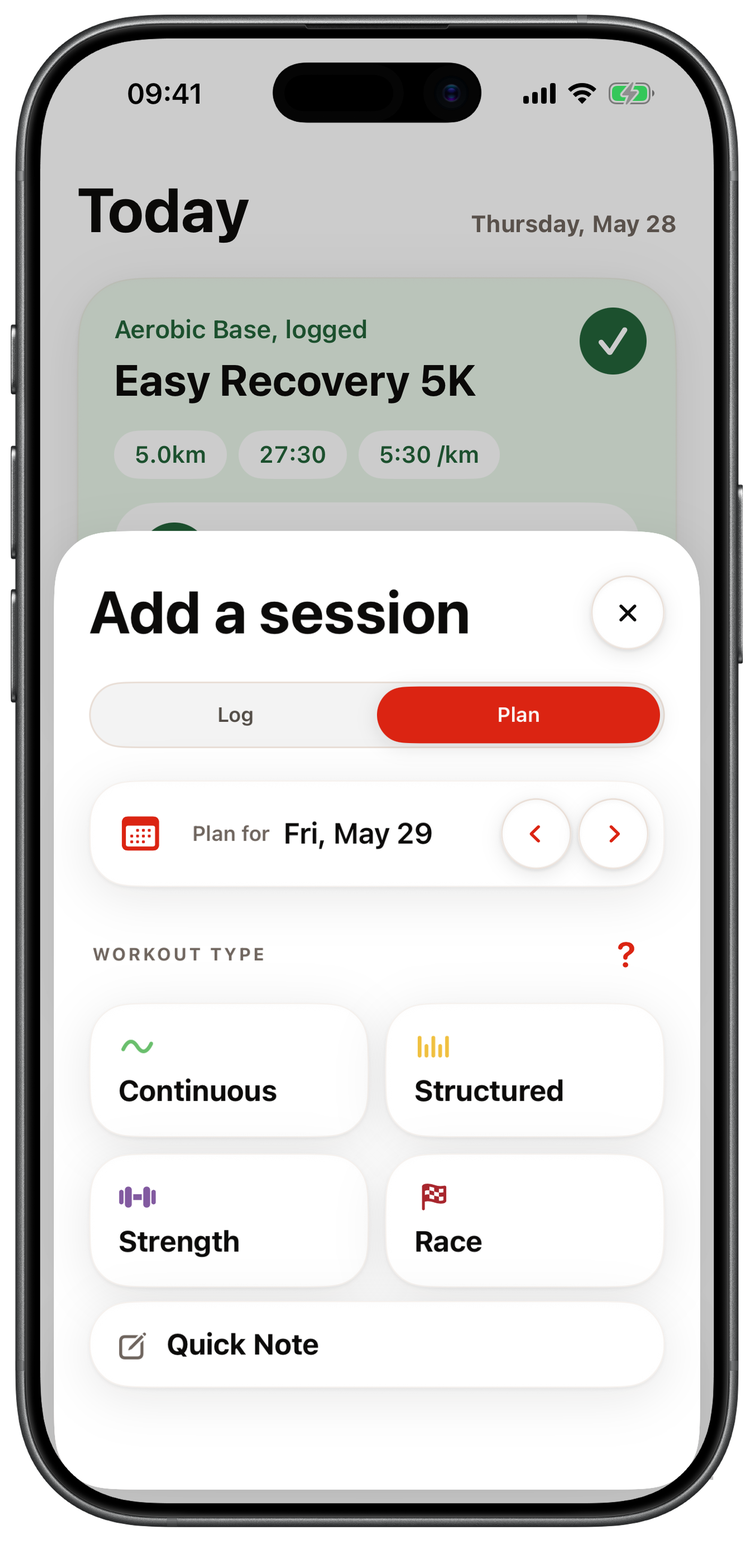
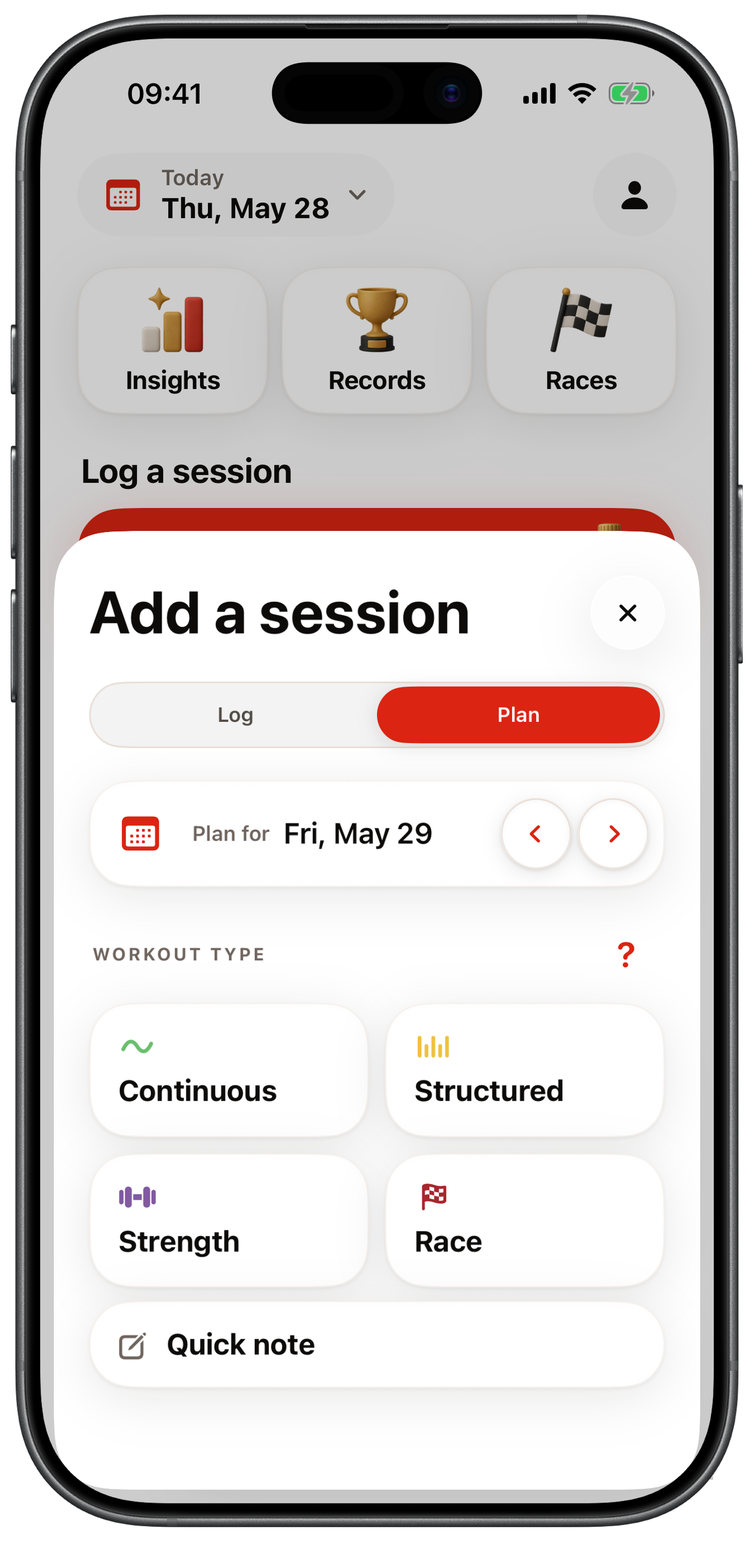
Refresh the website for StrideBuddy 1.2.0
Replace every phone screenshot with the approved one-page App Store set,
add a Race predictions section, and update the copy where the app changed:
Coach is now Plan, Volume lives in Insights as a 12-week line, Records shows
personal bests and training records, and Races lists only races ahead. The
Diary screenshot is removed because that screen no longer exists.

diff --git a/index.html b/index.html
@@ -4,7 +4,7 @@
   <meta charset="utf-8">
   <meta name="viewport" content="width=device-width, initial-scale=1">
   <title>StrideBuddy | A training diary for track athletes</title>
-  <meta name="description" content="Log track sessions without forcing them into a generic running app. StrideBuddy brings reps, splits, strength work, races, records and weekly Coach plans into one diary.">
+  <meta name="description" content="Log track sessions without forcing them into a generic running app. StrideBuddy brings reps, splits, strength work, races, records, race predictions and weekly plans into one diary.">
   <!--
     Apex, no extension. That is what the host serves: Cloudflare Pages strips
     the extension, so /index.html 307s here and /support.html 307s to /support.
@@ -31,7 +31,7 @@
   <meta property="og:site_name" content="StrideBuddy">
   <meta property="og:url" content="https://stridebuddy.app/">
   <meta property="og:title" content="StrideBuddy | A training diary for track athletes">
-  <meta property="og:description" content="Log track training and races in one diary. Coach plans your week around your event, recent training and season.">
+  <meta property="og:description" content="Log track training and races in one diary. StrideBuddy plans your week around your event, recent training and season, and predicts your race times.">
   <meta property="og:image" content="https://stridebuddy.app/assets/stridebuddy_icon.png">
   <meta property="og:image:width" content="1024">
   <meta property="og:image:height" content="1024">
@@ -73,19 +73,21 @@
       "https://stridebuddy.app/assets/screenshots/today.png",
       "https://stridebuddy.app/assets/screenshots/log_structured.png",
       "https://stridebuddy.app/assets/screenshots/review.png",
+      "https://stridebuddy.app/assets/screenshots/predictions.png",
       "https://stridebuddy.app/assets/screenshots/records.png",
       "https://stridebuddy.app/assets/screenshots/race_calendar.png",
       "https://stridebuddy.app/assets/screenshots/volume.png"
     ],
-    "description": "A training diary for competitive track and field athletes. Log reps, recoveries, splits, strength work and races, plan your week with Coach, and keep personal bests and rep records in view.",
+    "description": "A training diary for competitive track and field athletes. Log reps, recoveries, splits, strength work and races, get a weekly plan and race predictions, and keep personal bests and rep records in view.",
     "featureList": [
       "Structured track session logging with reps, recoveries and splits",
       "Hurdles and steeplechase reps kept distinct from flat distances",
       "Strength, road, trail and race logging",
       "Personal bests and rep records",
       "Planned sessions and a race calendar",
+      "Race predictions with a range and a confidence level",
       "Weekly running volume from your logged sessions",
-      "Weekly Coach plans built around modern periodization",
+      "Weekly plans built around modern periodization",
       "Account sync across devices with offline access"
     ],
     "offers": {
@@ -455,7 +457,8 @@
       </a>
       <nav class="navlinks" aria-label="Main navigation">
         <a href="#features">Features</a>
-        <a href="#coach">Coach</a>
+        <a href="#coach">Plan</a>
+        <a href="#predictions">Predictions</a>
         <a href="#records">Records</a>
       </nav>
       <div class="nav-actions">
@@ -478,7 +481,7 @@
           <svg aria-hidden="true" viewBox="0 0 24 24" width="15" height="15" fill="none" stroke="currentColor" stroke-width="2.2" stroke-linecap="round" stroke-linejoin="round"><path d="M5 12h14M13 6l6 6-6 6"/></svg>
         </a>
         <h1 class="center">A training diary that understands track.</h1>
-        <p class="lede center">Log reps, splits, races and strength work in one diary. Coach plans your week around your event, recent training and season. Keep your reps and race records together.</p>
+        <p class="lede center">Log reps, splits, races and strength work in one diary. StrideBuddy plans your week around your event, recent training and season, and predicts your race times. Keep your reps and race records together.</p>
         <div class="btn-row">
           <a class="btn btn-red" href="https://apps.apple.com/app/apple-store/id6760190939?pt=128627634&amp;ct=website&amp;mt=8">Download on the App Store</a>
           <a class="btn btn-smoke" href="https://web.stridebuddy.app">Open the web app
@@ -490,12 +493,12 @@
 
       <div class="wrap">
         <div class="cascade">
-          <div class="phone p-back left"><img src="assets/screenshots/records.png" width="1800" height="3680" alt="Records with the speed curve and times by distance"></div>
-          <div class="phone p-back right"><img src="assets/screenshots/race_calendar.png" width="1800" height="3680" alt="Upcoming and past races in the race calendar"></div>
-          <div class="phone p-mid left"><img src="assets/screenshots/diary.png" width="1800" height="3680" alt="StrideBuddy's Diary with this week's sessions"></div>
-          <div class="phone p-mid right"><img src="assets/screenshots/review.png" width="1800" height="3680" alt="Coach showing Season status and this week's plan"></div>
+          <div class="phone p-back left"><img src="assets/screenshots/records.png" width="1800" height="3680" alt="Records with personal bests and training records"></div>
+          <div class="phone p-back right"><img src="assets/screenshots/race_calendar.png" width="1800" height="3680" alt="Upcoming races in the race calendar"></div>
+          <div class="phone p-mid left"><img src="assets/screenshots/predictions.png" width="1800" height="3680" alt="An 800m race prediction with its range and confidence level"></div>
+          <div class="phone p-mid right"><img src="assets/screenshots/review.png" width="1800" height="3680" alt="Plan showing Season status and this week's sessions"></div>
           <div class="phone phone-layered p-front">
-            <img class="screen" src="assets/screenshots/today.png" width="1206" height="2622" alt="StrideBuddy's Today screen, with today's logged session and this week's training">
+            <img class="screen" src="assets/screenshots/today.png" width="1206" height="2622" alt="StrideBuddy's training page, with the Log button and this week's diary">
             <img class="bezel" src="assets/iphone-17-black-bezel.png" width="2015" height="4120" alt="" aria-hidden="true">
           </div>
         </div>
@@ -561,13 +564,13 @@
         <div class="g3" style="margin-top:16px">
           <article class="tile">
             <h3>A week that fits your season</h3>
-            <p class="body">Coach uses modern periodization to change your training focus through the season.</p>
+            <p class="body">Plan uses modern periodization to change your training focus through the season.</p>
             <div class="season" aria-hidden="true" style="grid-template-columns:repeat(12, minmax(0, 1fr)); margin-top:24px">
               <span class="w-base past"></span><span class="now"></span><span class="w-build"></span><span class="w-sharpen"></span><span class="w-sharpen"></span><span class="w-race"></span><span class="w-race"></span><span class="w-sharpen"></span><span class="w-race"></span><span class="w-rest"></span><span class="w-rest"></span><span class="w-rest"></span>
             </div>
           </article>
           <article class="tile">
-            <h3>A curve for speed, a ledger for times</h3>
+            <h3>Your fastest reps and races</h3>
             <p class="body">Reps and races shown side by side and never scored.</p>
             <div class="times num" aria-hidden="true">
               <div><p class="d">60m</p><p class="t">7.40</p></div>
@@ -594,7 +597,7 @@
           <div class="points" aria-label="What you can plan in StrideBuddy">
             <div class="pt"><strong>Log or plan</strong><span>Log covers today and any earlier day. Plan covers tomorrow onwards, as far as a year out.</span></div>
             <div class="pt"><strong>The same session types</strong><span>Structured, Continuous, Strength, Race and Quick Note.</span></div>
-            <div class="pt"><strong>Waiting on Today</strong><span>Find upcoming sessions on Today and in the Plan page. Log the result when you have done the session.</span></div>
+            <div class="pt"><strong>Ready on the day</strong><span>On the day, the session waits on your training page. Find later sessions in Plan. Log the result when you have done the session.</span></div>
             <div class="pt"><strong>Races go to the calendar</strong><span>Plan a race and it lands in your race calendar instead.</span></div>
           </div>
         </div>
@@ -606,18 +609,18 @@
     <section id="coach" class="sec">
       <div class="wrap split">
         <div>
-          <p class="eyebrow">Coach</p>
+          <p class="eyebrow">Plan</p>
           <h2 class="h2">Your training week, built for your season.</h2>
-          <p class="lead">Coach builds a weekly plan from your event, recent training, available days and races. The season sets the direction. Your diary helps it choose how much work to prescribe.</p>
-          <div class="points" aria-label="How Coach plans your training">
+          <p class="lead">In Plan, StrideBuddy builds a weekly plan from your event, recent training, available days and races. The season sets the direction. Your diary helps it choose how much work to prescribe.</p>
+          <div class="points" aria-label="How Plan builds your training week">
             <div class="pt"><strong>Season status</strong><span>Read where you are in the season and what your training is working toward.</span></div>
             <div class="pt"><strong>This week</strong><span>Understand the focus of the week before you open its sessions.</span></div>
             <div class="pt"><strong>Your event and races</strong><span>Training reflects your event and the importance of the races in your calendar.</span></div>
             <div class="pt"><strong>You choose when to build</strong><span>Ask for your week when you are ready. Saved plans remain available offline.</span></div>
           </div>
-          <p class="note">Coach uses AI to write the plan within event-specific training rules. It is a free beta feature and needs an internet connection to build or change a plan.</p>
+          <p class="note">Plan uses AI to write the plan within event-specific training rules. It is a free beta feature and needs an internet connection to build or change a plan.</p>
         </div>
-        <div class="stage"><div class="phone"><img src="assets/screenshots/review.png" width="1800" height="3680" alt="Coach showing Season status, This week and a saved weekly training plan" loading="lazy"></div></div>
+        <div class="stage"><div class="phone"><img src="assets/screenshots/review.png" width="1800" height="3680" alt="Plan showing Season status, This week and a saved weekly training plan" loading="lazy"></div></div>
       </div>
     </section>
 
@@ -628,7 +631,7 @@
           <p class="eyebrow">Modern periodization</p>
           <h2 class="h2">Change the focus as your season progresses.</h2>
           <p class="lead">Periodization means changing the focus of training over time. Build a base, develop the qualities your event needs, then prepare for racing. Easier weeks and recovery are part of the plan.</p>
-          <p class="more">Coach keeps useful training qualities in the plan as the main focus changes. It considers your recent sessions and race priorities when choosing the next week's work.</p>
+          <p class="more">The plan keeps useful training qualities in the plan as the main focus changes. It considers your recent sessions and race priorities when choosing the next week's work.</p>
           <p class="more">A return from a break starts with a gradual return to training. A nearby race can change the week's preparation. The plan follows your situation.</p>
         </div>
         <div class="stage" style="padding:48px 32px">
@@ -661,70 +664,89 @@
         <div>
           <p class="eyebrow">Each session has a purpose</p>
           <h2 class="h2">Know what to do and why it belongs.</h2>
-          <p class="lead">Open a Coach session to see its reps, recoveries and execution cues. Read what the session develops and how it supports your event.</p>
-          <p class="more">Coach can include time or pace ranges when your recent training and personal bests support them. A session can also come without a numerical target.</p>
+          <p class="lead">Open a planned session to see its reps, recoveries and execution cues. Read what the session develops and how it supports your event.</p>
+          <p class="more">A session can include time or pace ranges when your recent training and personal bests support them. A session can also come without a numerical target.</p>
           <p class="more">Use the planned session to start your log when its day arrives. Record the result you actually ran.</p>
         </div>
-        <div class="stage"><div class="phone"><img src="assets/screenshots/coach_session.png" width="1800" height="3680" alt="A Coach session showing its reps, recoveries and the answer to why this session now" loading="lazy"></div></div>
+        <div class="stage"><div class="phone"><img src="assets/screenshots/coach_session.png" width="1800" height="3680" alt="A planned session showing its reps, recoveries and the answer to why this session now" loading="lazy"></div></div>
+      </div>
+    </section>
+
+    <!-- ============ PREDICTIONS ============ -->
+    <section id="predictions" class="sec band">
+      <div class="wrap split rev">
+        <div>
+          <p class="eyebrow">Race predictions</p>
+          <h2 class="h2">Race predictions from your training.</h2>
+          <p class="lead">StrideBuddy uses AI to read your diary and predict your race times. You get predictions for your main event and for related numbers. For example, an 800m runner sees the 800m, 400m and 1500m.</p>
+          <div class="points" aria-label="What a race prediction shows">
+            <div class="pt"><strong>A range, not one number</strong><span>Each prediction shows the most likely time and a range around it.</span></div>
+            <div class="pt"><strong>Low, medium or high</strong><span>A confidence level tells you how sure the prediction is.</span></div>
+            <div class="pt"><strong>See it change</strong><span>A chart shows each prediction over the last 6 months, next to your PB.</span></div>
+            <div class="pt"><strong>Grows with your diary</strong><span>Your first predictions can appear after you log 5 sessions. They update as you log more.</span></div>
+          </div>
+          <p class="note">A prediction is an estimate, not a promise. Race predictions use AI. They are optional and free, with usage limits, and need an internet connection. Your last predictions stay available offline.</p>
+        </div>
+        <div class="stage"><div class="phone"><img src="assets/screenshots/predictions.png" width="1800" height="3680" alt="An 800m race prediction of 1:50.0, with its range, a medium confidence level and a chart of the last 6 months" loading="lazy"></div></div>
       </div>
     </section>
 
     <!-- ============ VOLUME ============ -->
-    <section id="volume" class="sec band">
-      <div class="wrap split rev">
+    <section id="volume" class="sec">
+      <div class="wrap split">
         <div>
           <p class="eyebrow">Volume</p>
           <h2 class="h2">How much you trained, counted from the diary.</h2>
-          <p class="lead">The You tab adds up the running distance you logged, with a bar for each week. Open a week to see its days and sessions.</p>
+          <p class="lead">Insights adds up the running distance you logged and shows the last 12 weeks as one line. Hold your finger on the line to read any week.</p>
           <div class="points" aria-label="What the weekly volume chart shows">
-            <div class="pt"><strong>Week by week</strong><span>Four weeks on screen at a time, and you can page back through earlier ones.</span></div>
-            <div class="pt"><strong>Open a week</strong><span>Tap a bar to see its days and the sessions inside them.</span></div>
+            <div class="pt"><strong>12 weeks at a glance</strong><span>See this week next to the weeks before it.</span></div>
+            <div class="pt"><strong>Your usual week</strong><span>A dashed line shows how much you usually run, so a big or small week is easy to spot.</span></div>
             <div class="pt"><strong>From your entries</strong><span>The chart uses your logged distance.</span></div>
             <div class="pt"><strong>Counted, not scored</strong><span>No readiness score and no training load index. These are your own entries, added up.</span></div>
           </div>
         </div>
-        <div class="stage"><div class="phone"><img src="assets/screenshots/volume.png" width="1800" height="3680" alt="Weekly volume chart and one week's sessions in StrideBuddy's You tab" loading="lazy"></div></div>
+        <div class="stage"><div class="phone"><img src="assets/screenshots/volume.png" width="1800" height="3680" alt="Weekly running volume and race predictions in StrideBuddy's Insights" loading="lazy"></div></div>
       </div>
     </section>
 
     <!-- ============ RECORDS ============ -->
-    <section id="records" class="sec">
-      <div class="wrap split">
+    <section id="records" class="sec band">
+      <div class="wrap split rev">
         <div>
           <p class="eyebrow">Records</p>
           <h2 class="h2">Your reps and races, side by side.</h2>
-          <p class="lead">Records brings your fastest reps and races onto one page. A hand-drawn signature curve follows the distances you run, and the ledger lists your times by distance. You can look at a single season or your full history.</p>
+          <p class="lead">Records brings your personal bests and your fastest reps onto one page. You can look at a single season or your full history.</p>
           <div class="points" aria-label="What you can see in Records">
-            <div class="pt"><strong>Your speed curve</strong><span>See your rep speed at every distance, with race results overlaid.</span></div>
-            <div class="pt"><strong>Times by distance</strong><span>Compare your fastest and typical times for reps or races.</span></div>
-            <div class="pt"><strong>One season or all time</strong><span>Focus on one season or open your complete training history.</span></div>
-            <div class="pt"><strong>Times without judgment</strong><span>A slower rep isn’t treated as a bad rep. It’s simply part of the record.</span></div>
+            <div class="pt"><strong>Personal bests</strong><span>Add the PBs you already have. A faster race in your diary replaces them on its own.</span></div>
+            <div class="pt"><strong>Training records</strong><span>Your fastest rep at each distance, from your logged sessions.</span></div>
+            <div class="pt"><strong>One season or all time</strong><span>See this season's bests or your complete history.</span></div>
+            <div class="pt"><strong>Hurdles kept apart</strong><span>Hurdle reps have their own records, apart from flat reps.</span></div>
           </div>
         </div>
-        <div class="stage"><div class="phone"><img src="assets/screenshots/records.png" width="1800" height="3680" alt="Signature speed curve and personal records in StrideBuddy" loading="lazy"></div></div>
+        <div class="stage"><div class="phone"><img src="assets/screenshots/records.png" width="1800" height="3680" alt="Personal bests and training records in StrideBuddy" loading="lazy"></div></div>
       </div>
     </section>
 
     <!-- ============ RACES ============ -->
-    <section id="races" class="sec band">
-      <div class="wrap split rev">
+    <section id="races" class="sec">
+      <div class="wrap split">
         <div>
           <p class="eyebrow">Races</p>
-          <h2 class="h2">The races you have coming, and the ones you have run.</h2>
-          <p class="lead">The race calendar keeps upcoming meets and past results on one page. A race you entered weeks ahead and a race you logged straight into the diary both appear here, so the list stays complete.</p>
+          <h2 class="h2">Every race ahead, in one calendar.</h2>
+          <p class="lead">Add your upcoming races and mark how important each one is. Races shows every race ahead and how many days are left. Plan uses them to shape your training.</p>
           <div class="points" aria-label="What the race calendar holds">
-            <div class="pt"><strong>What’s next</strong><span>Each upcoming race with its distance, venue, and the days left.</span></div>
+            <div class="pt"><strong>What’s next</strong><span>Each upcoming race with its distance and the days left.</span></div>
             <div class="pt"><strong>A, B, or C</strong><span>Full taper, short taper, or train through. You say which when you add the race.</span></div>
-            <div class="pt"><strong>Season or all time</strong><span>Read one season of results, or your whole history.</span></div>
-            <div class="pt"><strong>Personal bests marked</strong><span>A PB is flagged on the race where you set it.</span></div>
+            <div class="pt"><strong>Part of your plan</strong><span>Your weekly plan gets you ready for the races that matter most.</span></div>
+            <div class="pt"><strong>Results in Records</strong><span>Log a race and its time counts toward your personal bests.</span></div>
           </div>
         </div>
-        <div class="stage"><div class="phone"><img src="assets/screenshots/race_calendar.png" width="1800" height="3680" alt="Upcoming and past races in StrideBuddy's race calendar" loading="lazy"></div></div>
+        <div class="stage"><div class="phone"><img src="assets/screenshots/race_calendar.png" width="1800" height="3680" alt="Upcoming races in StrideBuddy's race calendar" loading="lazy"></div></div>
       </div>
     </section>
 
     <!-- ============ IPHONE AND WEB ============ -->
-    <section id="web" class="sec">
+    <section id="web" class="sec band">
       <div class="wrap split">
         <div>
           <p class="eyebrow">iPhone and web</p>
@@ -758,7 +780,7 @@
     </section>
 
     <!-- ============ HOW IT WORKS ============ -->
-    <section id="how" class="sec band">
+    <section id="how" class="sec">
       <div class="wrap">
         <p class="eyebrow">How it works</p>
         <h2 class="h2">Keep a clear record of your training.</h2>
@@ -776,7 +798,7 @@
           <article class="tile">
             <div class="step-n num" aria-hidden="true">3</div>
             <h3>Review the result</h3>
-            <p class="body">Find the session in your Diary, check your records and see how much running you logged that week.</p>
+            <p class="body">Find the session in your diary, check your records and race predictions, and see how much you ran each week.</p>
           </article>
         </div>
       </div>
@@ -808,7 +830,8 @@
       </a>
       <nav class="footer-links" aria-label="Footer navigation">
         <a href="#features">Features</a>
-        <a href="#coach">Coach</a>
+        <a href="#coach">Plan</a>
+        <a href="#predictions">Predictions</a>
         <a href="#records">Records</a>
         <a href="#races">Races</a>
         <a href="https://web.stridebuddy.app">Web app</a>

diff --git a/README.md b/README.md
@@ -9,7 +9,7 @@ no dependencies, no tracking) styled with the app's **StrideBuddy Design System*
 
 | File | Purpose |
 | --- | --- |
-| `index.html` | The one-page landing site (hero, sessions, features, plan, Coach, periodization, session purpose, volume, records, races, iPhone and web, how it works, CTA). |
+| `index.html` | The one-page landing site (hero, sessions, features, plan, weekly Plan, periodization, session purpose, race predictions, volume, records, races, iPhone and web, how it works, CTA). |
 | `support.html` | Support / contact page. |
 | `terms.html` | Terms of use and AI disclosure. |
 | `privacy.html` | Privacy policy. |
@@ -276,18 +276,18 @@ The page uses real app screenshots exported with a transparent device frame:
 
 | File | Screen | Used in |
 | --- | --- | --- |
-| `assets/screenshots/today.png` | Today | Hero front phone, and the iPhone and web section (layered inside `assets/iphone-17-black-bezel.png`) |
-| `assets/screenshots/diary.png` | Diary week view | Hero cascade |
-| `assets/screenshots/review.png` | Coach / Season status and weekly plan | Hero cascade, Coach section |
-| `assets/screenshots/records.png` | Records / speed curve | Hero cascade, Records section |
-| `assets/screenshots/race_calendar.png` | Race calendar | Hero cascade, Races section |
+| `assets/screenshots/today.png` | Training page (Log a session and the diary) | Hero front phone, and the iPhone and web section (layered inside `assets/iphone-17-black-bezel.png`) |
+| `assets/screenshots/review.png` | Plan / Season status and weekly plan | Hero cascade, Plan section (`#coach`) |
+| `assets/screenshots/predictions.png` | Insights / 800m performance prediction sheet | Hero cascade, Race predictions section |
+| `assets/screenshots/records.png` | Records / personal bests and training records | Hero cascade, Records section |
+| `assets/screenshots/race_calendar.png` | Race calendar (upcoming races only) | Hero cascade, Races section |
 | `assets/screenshots/central_log.png` | Add a session tray, Log face | Features |
 | `assets/screenshots/log_structured.png` | Structured track-session logging | Features |
 | `assets/screenshots/log_strength.png` | Strength logging form, filled from the capture diary | Features |
 | `assets/screenshots/central_plan.png` | Add a session tray, Plan face | Plan section |
-| `assets/screenshots/coach_session.png` | Coach session detail | Session purpose section |
-| `assets/screenshots/volume.png` | You / weekly volume | Volume section |
-| `assets/screenshots/periodization.png` | Coach periodization introduction | Unused on the page; kept in sync with the App Store set |
+| `assets/screenshots/coach_session.png` | Planned session detail | Session purpose section |
+| `assets/screenshots/volume.png` | Insights / volume and predictions | Volume section |
+| `assets/screenshots/periodization.png` | Plan setup periodization introduction | Unused on the page; kept in sync with the App Store set |
 
 Every file above is the composite: the raw screen scaled into the device frame,
 **2015×4120** with the area outside the phone transparent. `today.png` is the one
@@ -309,7 +309,7 @@ image rather than assuming an offset:
 ```sh
 ~/.cache/stridebuddy-social/venv/bin/python ../AppStore/tools/bezel.py \
   assets/screenshots/central_log_raw.png assets/screenshots/central_plan_raw.png \
-  assets/screenshots/coach_session_raw.png assets/screenshots/diary_raw.png \
+  assets/screenshots/coach_session_raw.png assets/screenshots/predictions_raw.png \
   assets/screenshots/log_strength_raw.png assets/screenshots/log_structured_raw.png \
   assets/screenshots/periodization_raw.png assets/screenshots/race_calendar_raw.png \
   assets/screenshots/records_raw.png assets/screenshots/review_raw.png \
